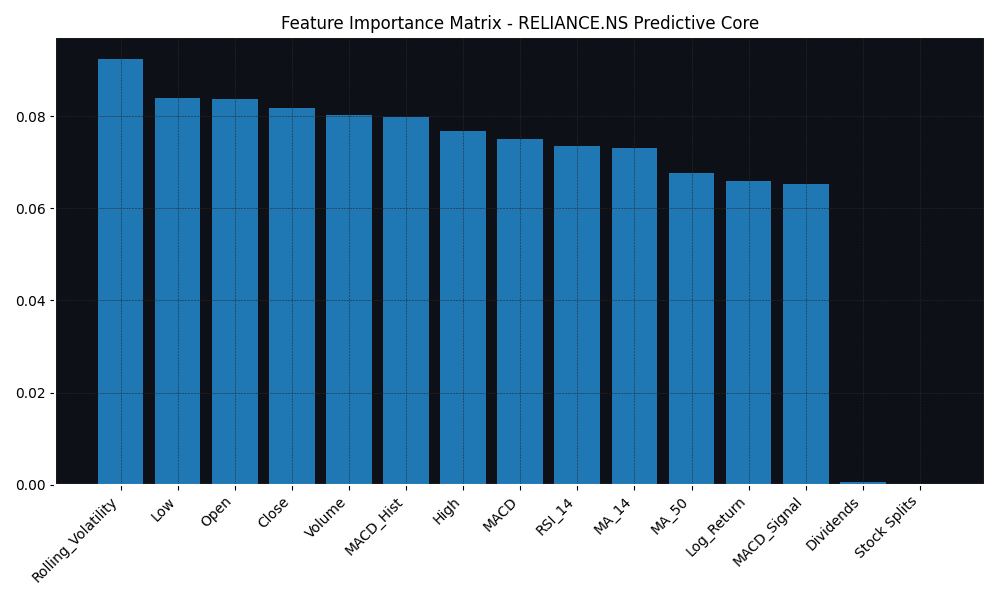
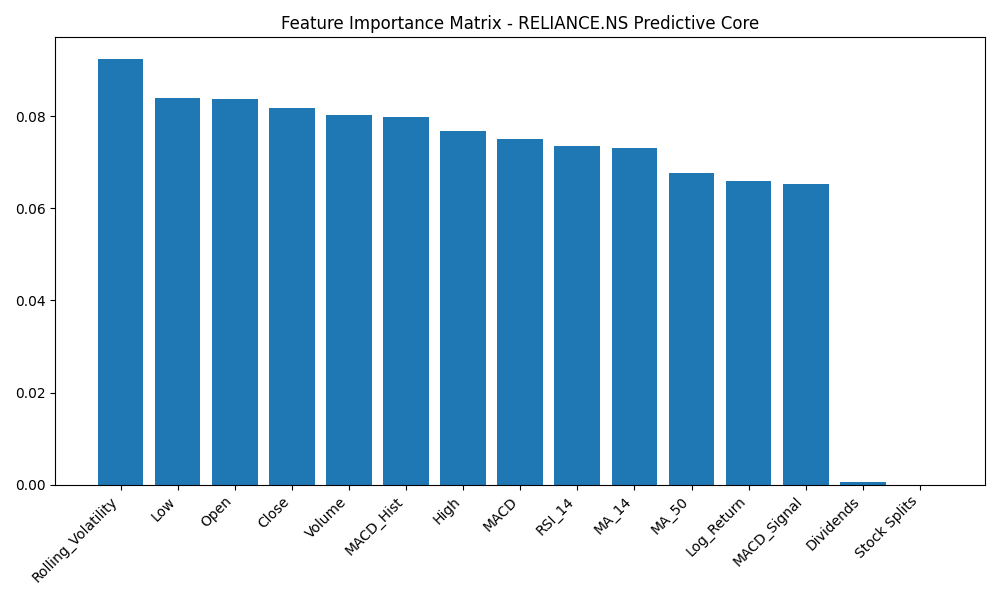
feat: integrate historical backtesting engine and generate asset return logs

diff --git a/src/evaluation/backtest.py b/src/evaluation/backtest.py
@@ -1,0 +1,58 @@
+import os
+import sys
+import numpy as np
+import pandas as pd
+
+
+sys.path.append(os.path.abspath(os.path.join(os.path.dirname(__file__), '../../')))
+
+from src.utils.logger import get_logger
+from src.models.train_model import train_momentum_model
+from src.models.preprocess import prepare_model_data
+
+logger = get_logger("BacktestEngine")
+
+def run_portfolio_backtest(feature_filepath: str, stock_name: str):
+    
+    logger.info(f"📈 Initiating historical algorithmic backtest for {stock_name}...")
+    
+    
+    df = pd.read_csv(feature_filepath, parse_dates=['Date'], index_col='Date')
+    df['Target'] = df['Log_Return'].shift(-1)
+    df.dropna(inplace=True)
+    
+    split_index = int(len(df) * 0.8)
+    test_df = df.iloc[split_index:].copy()
+    
+    model = train_momentum_model(feature_filepath, stock_name)
+    _, X_test, _, _, _ = prepare_model_data(feature_filepath, target_col='Log_Return')
+    test_predictions = model.predict(X_test)
+    
+   
+    trading_signals = np.where(test_predictions == 1, 1, 0)
+    
+   
+    test_df['Market_Return'] = test_df['Log_Return']
+    test_df['Strategy_Return'] = test_df['Market_Return'] * trading_signals
+    
+    
+    test_df['Cumulative_Market'] = (1 + test_df['Market_Return']).cumprod() - 1
+    test_df['Cumulative_Strategy'] = (1 + test_df['Strategy_Return']).cumprod() - 1
+    
+    final_market_perf = test_df['Cumulative_Market'].iloc[-1] * 100
+    final_strategy_perf = test_df['Cumulative_Strategy'].iloc[-1] * 100
+    
+    logger.info(f"📊 --- BACKTEST RESULTS FOR {stock_name} ---")
+    logger.info(f"🏆 Baseline Buy & Hold Return: {final_market_perf:.2f}%")
+    logger.info(f"🤖 AI Algorithmic Return: {final_strategy_perf:.2f}%")
+   
+    os.makedirs("data/results", exist_ok=True)
+    test_df.to_csv(f"data/results/{stock_name}_backtest.csv")
+    logger.info(f"💾 Backtest log matrix saved to data/results/{stock_name}_backtest.csv\n")
+
+if __name__ == "__main__":
+    stocks = ["TATASTEEL.NS", "RELIANCE.NS"]
+    for stock in stocks:
+        feature_file = f"data/{stock}_features.csv"
+        if os.path.exists(feature_file):
+            run_portfolio_backtest(feature_file, stock)